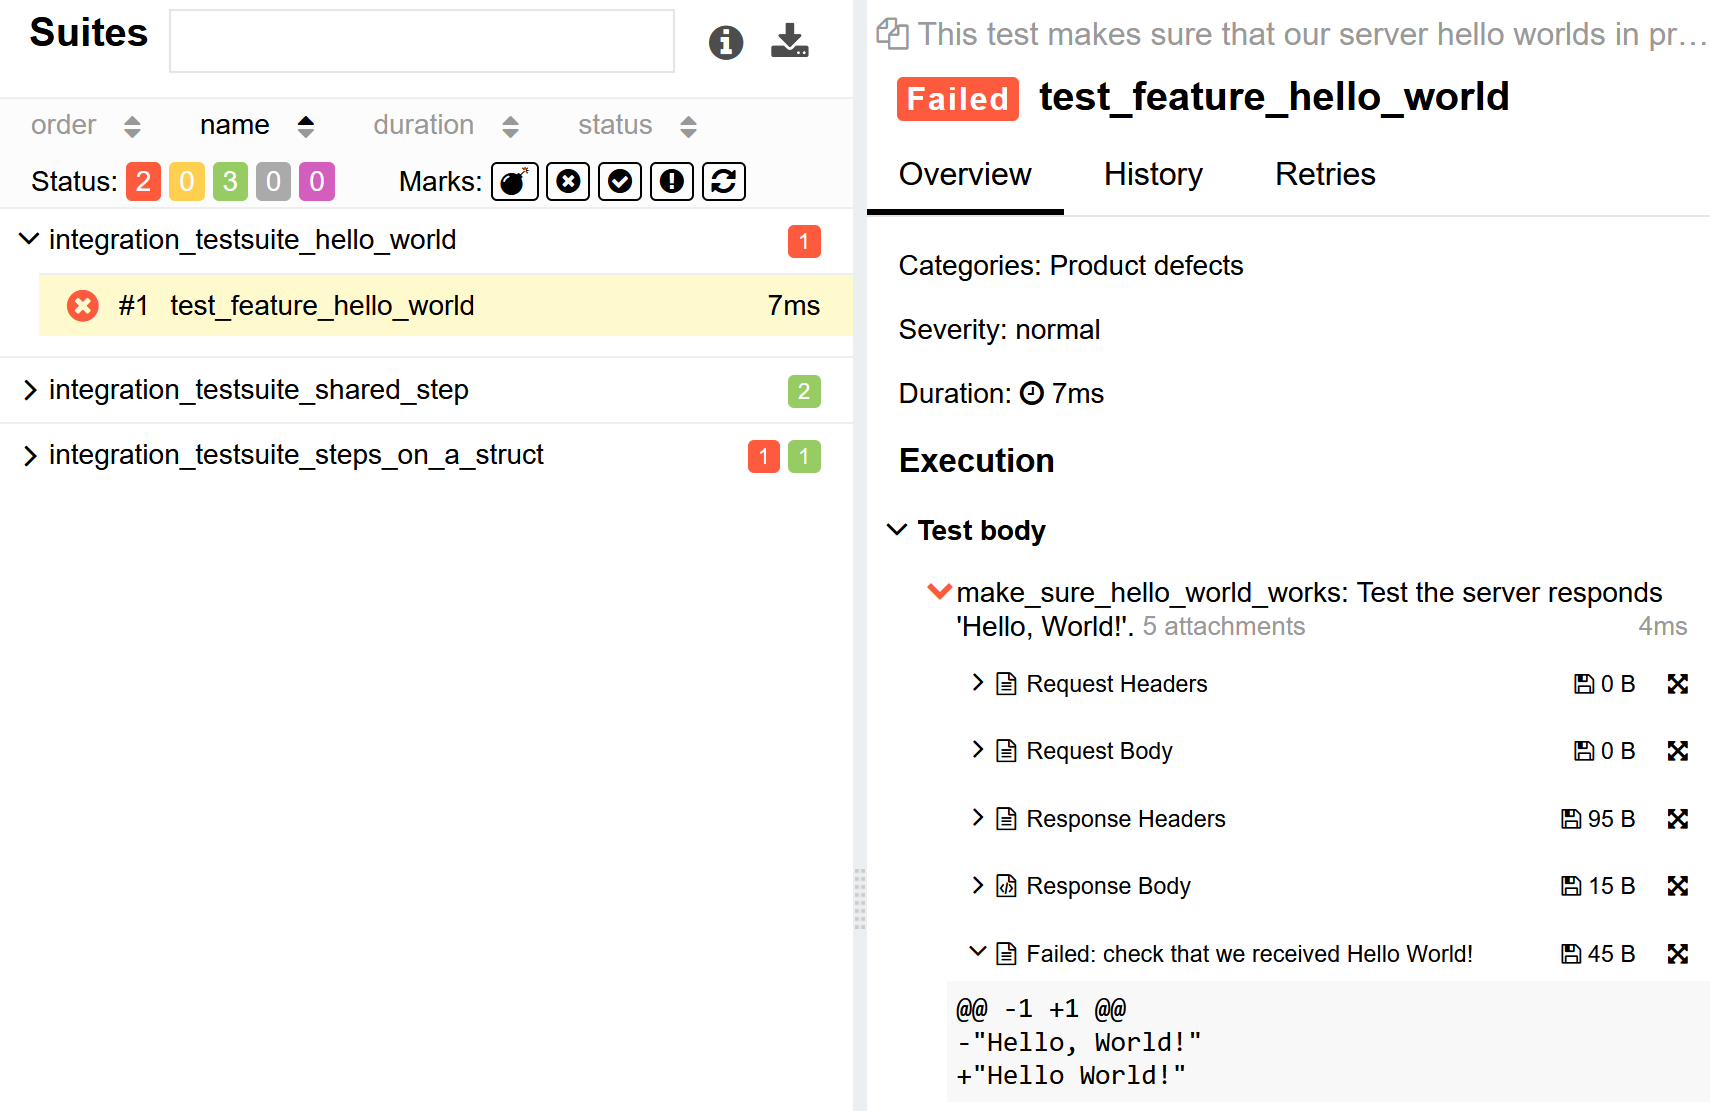
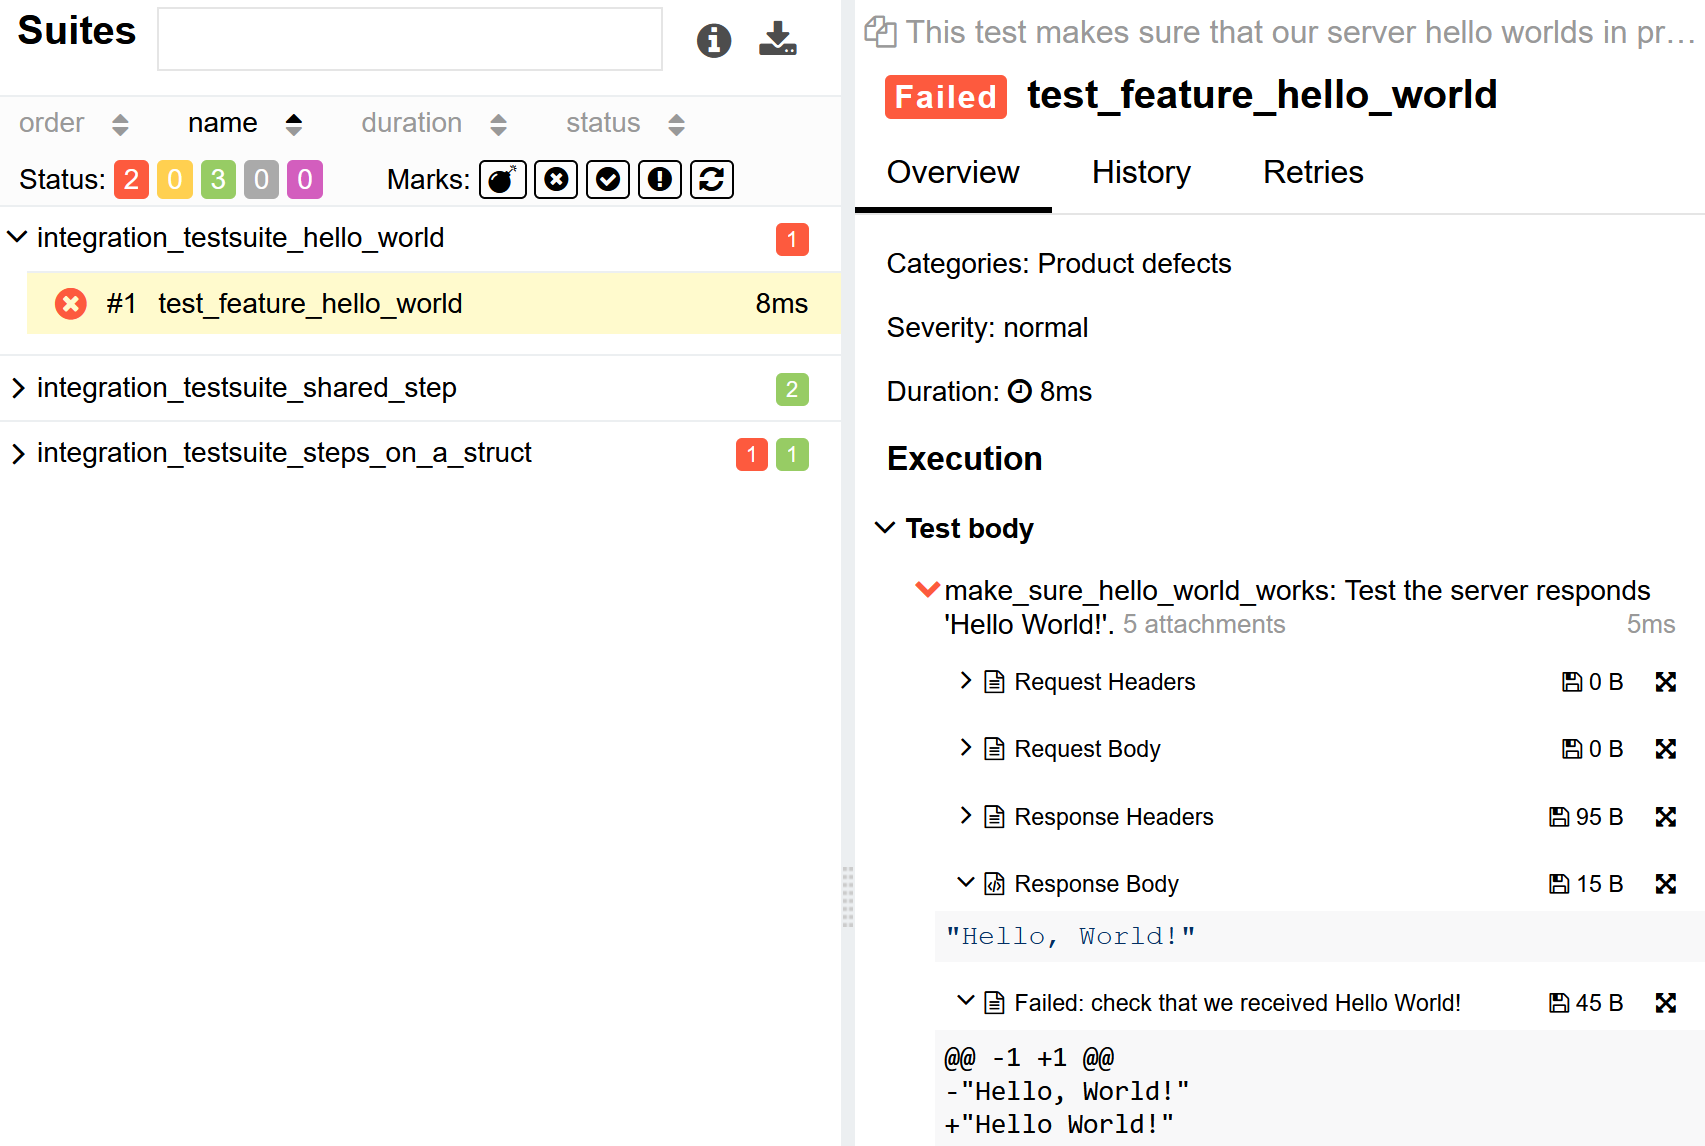
fix typo

diff --git a/examples/tests/integration_testsuite_hello_world.rs b/examples/tests/integration_testsuite_hello_world.rs
@@ -21,7 +21,7 @@ async fn test_feature_hello_world(test_helper: &mut TestHelper) -> anyhow::Resul
     make_sure_hello_world_works(addr, test_helper).await?;
 }
 
-#[allure_step(step_description = "Test the server responds 'Hello, World!'.")]
+#[allure_step(step_description = "Test the server responds 'Hello World!'.")]
 pub async fn make_sure_hello_world_works(
     addr: SocketAddr,
     test_helper: &mut TestHelper,

diff --git a/README.md b/README.md
@@ -15,7 +15,7 @@ async fn test_feature_hello_world(test_helper: &mut TestHelper) -> anyhow::Resul
     make_sure_hello_world_works(addr, test_helper).await?;
 }
 
-#[allure_step(step_description = "Test the server responds 'Hello, World!'.")]
+#[allure_step(step_description = "Test the server responds 'Hello World!'.")]
 pub async fn make_sure_hello_world_works(
     addr: SocketAddr,
     test_helper: &mut TestHelper,
@@ -34,11 +34,10 @@ pub async fn make_sure_hello_world_works(
         .await?;
     Ok(res)
 }
-
 ```
 
 <p>
-<img alt="example_image.png" height="550" src="example_image.png" width="855"/>
+<img alt="img.png" height="550" src="img.png" width="855"/>
 </p>
 
 More examples can be found under [examples](./examples), to explore them simply:
